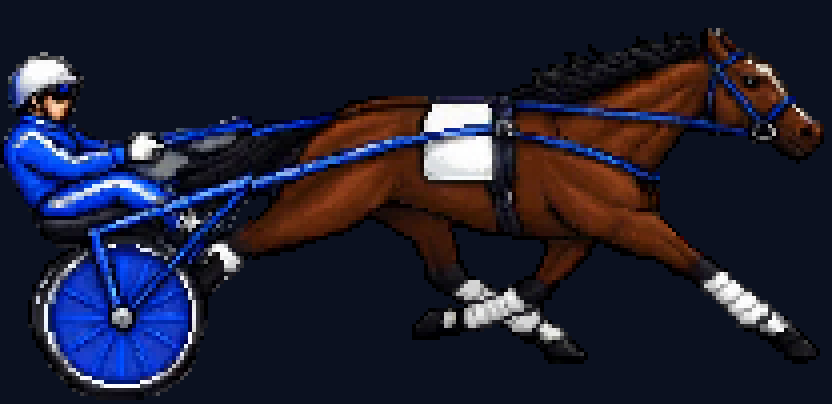
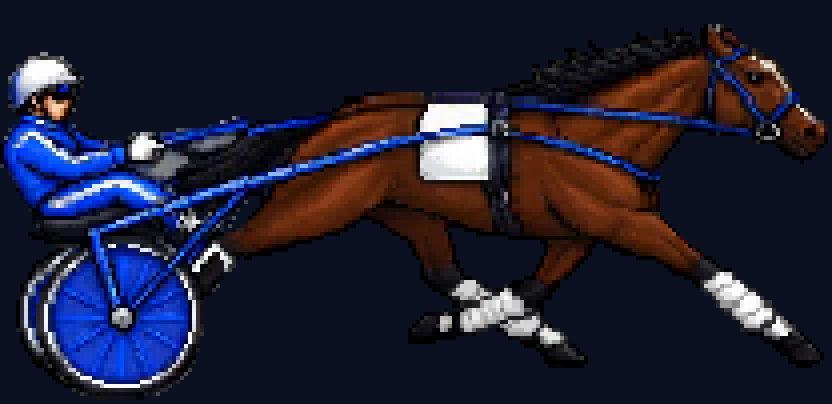
Deploy 2026-10-30 14:15

diff --git a/mockups/replay_hd2d.html b/mockups/replay_hd2d.html
@@ -660,7 +660,7 @@ const cycleLoaded = new Promise(r => { const i = new Image(); i.onload = () => {
 // Side view only for now; the angle, overhead and drive-cam sheets stay bare.
 const WRAPS_OK = !RIG && !PAINTED;                                    // the race data may not be in yet: load the sheet, pick per horse later
 let wrapImg = null, wrapMask = null;
-const wrapLoaded = WRAPS_OK ? Promise.all(["wraps12", "wraps12_mask"].map(n => new Promise(r => { const i = new Image(); i.onload = () => { if (n === "wraps12") wrapImg = i; else wrapMask = i; r(); }; i.onerror = r; i.src = P(`/mock/pixel/tack/${n}.png?v=2`); }))) : Promise.resolve();
+const wrapLoaded = WRAPS_OK ? Promise.all(["wraps12", "wraps12_mask"].map(n => new Promise(r => { const i = new Image(); i.onload = () => { if (n === "wraps12") wrapImg = i; else wrapMask = i; r(); }; i.onerror = r; i.src = P(`/mock/pixel/tack/${n}.png?v=3`); }))) : Promise.resolve();
 function wrapTint(c, hex) {
   if (!wrapMask) return c;
   if (!wrapTint.m) { const k = document.createElement("canvas"); k.width = wrapMask.width; k.height = wrapMask.height; const kg = k.getContext("2d"); kg.drawImage(wrapMask, 0, 0); wrapTint.m = kg.getImageData(0, 0, k.width, k.height).data; }

diff --git a/art/tack_layers/assemble_wraps.py b/art/tack_layers/assemble_wraps.py
@@ -49,6 +49,29 @@ def fit_length(i):
     return cell
 
 
+def settle(cell, i):
+    """The frame nudged until its body (back, belly, neck, head, above the legs) overlaps today's best: a small
+    scale and shift, so the horse rides as level as the stock runner instead of bobbing."""
+    import numpy as np
+    o = np.array(orig.crop((i * W, 0, (i + 1) * W, H)))[:, :, 3] > 0
+    top, x0 = H * 62 // 100, W // 3
+    target = o[:top, x0:]
+    best = (-1, cell)
+    for k in (.94, .96, .98, 1.0, 1.02, 1.04, 1.06):
+        sc = cell.resize((round(W * k), round(H * k)), Image.NEAREST)
+        base = Image.new("RGBA", (W, H)); base.paste(sc, (round((W - sc.width) / 2), round(H - sc.height)), sc)   # scaled about the ground line
+        a = np.array(base)[:, :, 3] > 0
+        for dy in range(-6, 7):
+            for dx in range(-6, 7):
+                m = np.roll(np.roll(a, dy, 0), dx, 1)[:top, x0:]
+                iou = (m & target).sum() / max(1, (m | target).sum())
+                if iou > best[0]:
+                    best = (iou, (k, dx, dy, base))
+    k, dx, dy, base = best[1]
+    out = Image.new("RGBA", (W, H)); out.paste(base, (dx, dy), base)
+    return out
+
+
 def steady(cell, i):
     """Today's wheel and driver laid over SpriteCook's: they're the same on every horse, so they never pulse."""
     o = orig.crop((i * W, 0, (i + 1) * W, H)); po, pc = o.load(), cell.load()
@@ -82,7 +105,7 @@ def tint(cell, mask, hx):
 
 
 if __name__ == "__main__":
-    cells = [steady(fit(i), i) for i in range(N)]; masks = [wraps(c) for c in cells]
+    cells = [steady(settle(fit(i), i), i) for i in range(N)]; masks = [wraps(c) for c in cells]
     for i, m in enumerate(masks):
         assert m.getbbox(), f"frame {i}: no wraps found"
     sheet, msheet = Image.new("RGBA", (W * N, H)), Image.new("L", (W * N, H))

diff --git a/art/tack_layers/anchors.py b/art/tack_layers/anchors.py
@@ -43,3 +43,18 @@ def drift(today, cell):
     na, nb = nose(today), nose(cell)
     d = sum(abs(A[k][j] - B[k][j]) for k in (0, 1) for j in (0, 1)) + abs(na[0] - nb[0]) + abs(na[1] - nb[1])
     return d + 40 * abs(wheel_w(cell) / wheel_w(today) - 1)
+
+
+def body(im):
+    """The body's outline as a set: opaque pixels above the legs and right of the bike (back, belly, neck, head)."""
+    px = im.load(); W, H = im.size
+    return {(x, y) for y in range(H * 62 // 100) for x in range(W // 3, W) if px[x, y][3]}
+
+
+def lines(im):
+    """Where the back and the belly sit: top and bottom of the body at three points along it."""
+    px = im.load(); W, H = im.size; out = []
+    for x in (95, 120, 145):
+        ys = [y for y in range(H * 70 // 100) if px[x, y][3]]
+        out += [min(ys), max(ys)] if ys else [0, 0]
+    return out

diff --git a/tack_art.py b/tack_art.py
@@ -87,7 +87,7 @@ def paint(pieces, cols, c1, c2):
 def render(pieces, cols, c1, c2):
     """The model's PNG at 3x, cached like the emblems; returns its path under /mock."""
     pieces = tuple(p for p in PIECES if p in pieces)
-    key = "tack|" + ",".join(pieces) + "|" + ",".join(f"{k}{v}" for k, v in sorted(cols.items())) + f"|{c1}|{c2}|v3"
+    key = "tack|" + ",".join(pieces) + "|" + ",".join(f"{k}{v}" for k, v in sorted(cols.items())) + f"|{c1}|{c2}|v4"
     name = hashlib.md5(key.encode()).hexdigest()[:12] + ".png"
     path = os.path.join(CACHE, name)
     if not os.path.exists(path):
